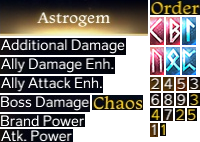
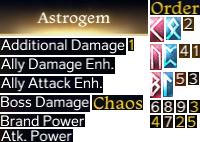
feat/디버그 모드를 매 프레임마다 결정하게 변경
젬 이미지 직접 캡쳐로 추가

Changed region(s): [[0.75, 0.1127, 1.0, 0.9859], [0.63, 0.2535, 0.69, 0.3662]]

diff --git a/src/lib/cv/captureWorker.ts b/src/lib/cv/captureWorker.ts
@@ -31,14 +31,19 @@ type RecgonitionTarget<K extends string> = {
 };
 
 class FrameProcessor {
-  loadedAsset: Awaited<ReturnType<typeof loadGemAsset>> | null = null;
-  debugCanvas: OffscreenCanvas | null = null;
-  private canvas: OffscreenCanvas = new OffscreenCanvas(1, 1);
-  private ctx = this.canvas.getContext('2d', { willReadFrequently: true })!;
+  // init
+  private loadedAsset: Awaited<ReturnType<typeof loadGemAsset>> | null = null;
   private initPromise: Promise<void> | null = null;
+
+  // debug
+  private debugCanvas: OffscreenCanvas = new OffscreenCanvas(0, 0);
+
+  // frame
+  private canvas: OffscreenCanvas = new OffscreenCanvas(0, 0);
+  private ctx = this.canvas.getContext('2d', { willReadFrequently: true })!;
   private cv: CV | null = null;
   private previousInfo: { locale: AppLocale; anchorLoc: { x: number; y: number } } | null = null;
-  thresholdSet = {
+  private thresholdSet = {
     anchor: 0.95,
     gemAttr: 0.9,
     gemImage: 0.8,
@@ -117,7 +122,7 @@ class FrameProcessor {
     return null;
   }
 
-  processFrame(frame: VideoFrame) {
+  processFrame(frame: VideoFrame, drawDebug: boolean = false) {
     const canvas = this.canvas;
     const ctx = this.ctx;
     let resizedFrame: CvMat | null = null;
@@ -134,7 +139,7 @@ class FrameProcessor {
       const imageData = ctx.getImageData(0, 0, canvas.width, canvas.height);
       resizedFrame = cv.matFromImageData(imageData);
       cv.cvtColor(resizedFrame, resizedFrame, cv.COLOR_RGBA2GRAY);
-      if (this.debugCanvas) {
+      if (drawDebug) {
         this.debugCanvas.width = frame.displayWidth * resolutionScale;
         this.debugCanvas.height = frame.displayHeight * resolutionScale;
 
@@ -206,7 +211,7 @@ class FrameProcessor {
         {
           roi: { x: anchorX - 186, y: anchorY + 91, width: 224, height: 24 },
           atlas: this.loadedAsset.atlasGemAttr[currentLocale],
-          threshold: this.thresholdSet.anchor,
+          threshold: this.thresholdSet.gemAttr,
         },
         resizedFrame,
         debugCtx
@@ -367,27 +372,24 @@ self.onmessage = async (e: MessageEvent<CaptureWorkerRequest>) => {
   const data = e.data;
   switch (data.type) {
     case 'init':
+      // 초기화 요청
       await processor.init();
       postToMain({ type: 'init:done' });
       break;
 
-    case 'debug':
-      processor.debugCanvas = new OffscreenCanvas(0, 0);
-      break;
-
     case 'frame':
-      const result = processor.processFrame(data.frame);
-      if (processor.debugCanvas) {
+      // 프레임 분석 요청
+      const result = processor.processFrame(data.frame, data.drawDebug);
+      postToMain({
+        type: 'frame:done',
+        result,
+      });
+      if (data.drawDebug) {
         postToMain({
           type: 'debug',
           image: processor.debugCanvas.transferToImageBitmap(),
         });
       }
-      postToMain({
-        type: 'frame:done',
-        result,
-        gems: result,
-      });
       break;
   }
 };

diff --git a/src/lib/opencv-template-coords/en_us.ts b/src/lib/opencv-template-coords/en_us.ts
@@ -1,33 +1,33 @@
 // THIS FILE IS AUTO-GENERATED. DO NOT MODIFY ITSELF
 export const enUsCoords = {
-  '1.png': { x: 150, y: 123, w: 8, h: 14 },
-  '2.png': { x: 150, y: 77, w: 11, h: 14 },
-  '3.png': { x: 189, y: 77, w: 11, h: 13 },
-  '4.png': { x: 163, y: 77, w: 11, h: 14 },
-  '5.png': { x: 176, y: 77, w: 11, h: 14 },
-  '6.png': { x: 150, y: 93, w: 11, h: 13 },
-  '7.png': { x: 163, y: 108, w: 10, h: 13 },
-  '8.png': { x: 163, y: 93, w: 11, h: 13 },
-  '9.png': { x: 176, y: 93, w: 11, h: 13 },
+  '1.png': { x: 192, y: 44, w: 8, h: 14 },
+  '2.png': { x: 183, y: 17, w: 11, h: 14 },
+  '3.png': { x: 188, y: 72, w: 11, h: 13 },
+  '4.png': { x: 179, y: 44, w: 11, h: 14 },
+  '5.png': { x: 175, y: 72, w: 11, h: 14 },
+  '6.png': { x: 150, y: 100, w: 11, h: 13 },
+  '7.png': { x: 163, y: 115, w: 10, h: 13 },
+  '8.png': { x: 163, y: 100, w: 11, h: 13 },
+  '9.png': { x: 176, y: 100, w: 11, h: 13 },
   'anchor.png': { x: 0, y: 0, w: 148, h: 36 },
-  'lv1.png': { x: 160, y: 123, w: 6, h: 13 },
-  'lv2.png': { x: 175, y: 108, w: 10, h: 13 },
-  'lv3.png': { x: 189, y: 93, w: 11, h: 13 },
-  'lv4.png': { x: 150, y: 108, w: 11, h: 13 },
-  'lv5.png': { x: 187, y: 108, w: 10, h: 13 },
-  '견고.png': { x: 150, y: 17, w: 14, h: 28 },
+  'lv1.png': { x: 128, y: 38, w: 6, h: 13 },
+  'lv2.png': { x: 175, y: 115, w: 10, h: 13 },
+  'lv3.png': { x: 189, y: 100, w: 11, h: 13 },
+  'lv4.png': { x: 150, y: 115, w: 11, h: 13 },
+  'lv5.png': { x: 187, y: 115, w: 10, h: 13 },
+  '견고.png': { x: 150, y: 17, w: 14, h: 25 },
   '공격력.png': { x: 0, y: 129, w: 73, h: 13 },
   '낙인력.png': { x: 0, y: 114, w: 85, h: 13 },
   '보스피해.png': { x: 0, y: 95, w: 90, h: 17 },
-  '불변.png': { x: 166, y: 17, w: 14, h: 28 },
-  '붕괴.png': { x: 182, y: 17, w: 14, h: 28 },
+  '불변.png': { x: 150, y: 72, w: 11, h: 26 },
+  '붕괴.png': { x: 163, y: 72, w: 10, h: 25 },
   '아군공격강화.png': { x: 0, y: 76, w: 103, h: 17 },
   '아군피해강화.png': { x: 0, y: 57, w: 115, h: 17 },
-  '안정.png': { x: 150, y: 47, w: 14, h: 28 },
-  '왜곡.png': { x: 166, y: 47, w: 14, h: 28 },
+  '안정.png': { x: 150, y: 44, w: 12, h: 26 },
+  '왜곡.png': { x: 166, y: 17, w: 15, h: 23 },
   '질서.png': { x: 150, y: 0, w: 50, h: 15 },
   '추가피해.png': { x: 0, y: 38, w: 126, h: 17 },
-  '침식.png': { x: 182, y: 47, w: 14, h: 28 },
+  '침식.png': { x: 164, y: 44, w: 13, h: 24 },
   '혼돈.png': { x: 92, y: 95, w: 51, h: 15 },
 } as const;
 

diff --git a/src/lib/opencv-template-coords/ko_kr.ts b/src/lib/opencv-template-coords/ko_kr.ts
@@ -1,33 +1,33 @@
 // THIS FILE IS AUTO-GENERATED. DO NOT MODIFY ITSELF
 export const koKrCoords = {
-  '1.png': { x: 35, y: 112, w: 8, h: 15 },
-  '2.png': { x: 78, y: 92, w: 10, h: 15 },
-  '3.png': { x: 102, y: 92, w: 10, h: 13 },
-  '4.png': { x: 120, y: 56, w: 12, h: 13 },
-  '5.png': { x: 136, y: 74, w: 10, h: 14 },
+  '1.png': { x: 166, y: 106, w: 8, h: 15 },
+  '2.png': { x: 166, y: 27, w: 10, h: 15 },
+  '3.png': { x: 166, y: 76, w: 10, h: 13 },
+  '4.png': { x: 107, y: 56, w: 12, h: 13 },
+  '5.png': { x: 166, y: 44, w: 10, h: 14 },
   '6.png': { x: 123, y: 74, w: 11, h: 14 },
-  '7.png': { x: 137, y: 38, w: 11, h: 15 },
-  '8.png': { x: 94, y: 56, w: 11, h: 15 },
-  '9.png': { x: 107, y: 56, w: 11, h: 15 },
+  '7.png': { x: 150, y: 109, w: 11, h: 15 },
+  '8.png': { x: 137, y: 38, w: 11, h: 15 },
+  '9.png': { x: 94, y: 56, w: 11, h: 15 },
   'anchor.png': { x: 0, y: 0, w: 148, h: 36 },
-  'lv1.png': { x: 137, y: 92, w: 7, h: 13 },
-  'lv2.png': { x: 126, y: 92, w: 9, h: 13 },
-  'lv3.png': { x: 90, y: 92, w: 10, h: 14 },
-  'lv4.png': { x: 134, y: 56, w: 11, h: 13 },
-  'lv5.png': { x: 114, y: 92, w: 10, h: 13 },
-  '견고.png': { x: 150, y: 0, w: 14, h: 28 },
+  'lv1.png': { x: 166, y: 138, w: 7, h: 13 },
+  'lv2.png': { x: 166, y: 123, w: 9, h: 13 },
+  'lv3.png': { x: 166, y: 60, w: 10, h: 14 },
+  'lv4.png': { x: 121, y: 56, w: 11, h: 13 },
+  'lv5.png': { x: 166, y: 91, w: 10, h: 13 },
+  '견고.png': { x: 150, y: 0, w: 14, h: 25 },
   '공격력.png': { x: 0, y: 92, w: 42, h: 18 },
   '낙인력.png': { x: 94, y: 38, w: 41, h: 16 },
   '보스피해.png': { x: 0, y: 74, w: 60, h: 16 },
-  '불변.png': { x: 150, y: 30, w: 14, h: 28 },
-  '붕괴.png': { x: 150, y: 60, w: 14, h: 28 },
+  '불변.png': { x: 150, y: 81, w: 11, h: 26 },
+  '붕괴.png': { x: 166, y: 0, w: 10, h: 25 },
   '아군공격강화.png': { x: 0, y: 38, w: 92, h: 16 },
   '아군피해강화.png': { x: 0, y: 56, w: 92, h: 16 },
-  '안정.png': { x: 150, y: 90, w: 14, h: 28 },
-  '왜곡.png': { x: 0, y: 133, w: 14, h: 28 },
+  '안정.png': { x: 150, y: 27, w: 12, h: 26 },
+  '왜곡.png': { x: 0, y: 133, w: 15, h: 23 },
   '질서.png': { x: 44, y: 92, w: 32, h: 18 },
   '추가피해.png': { x: 62, y: 74, w: 59, h: 16 },
-  '침식.png': { x: 16, y: 133, w: 14, h: 28 },
+  '침식.png': { x: 150, y: 55, w: 13, h: 24 },
   '혼돈.png': { x: 0, y: 112, w: 33, h: 19 },
 } as const;
 

diff --git a/src/components/GemRecognitionPanel.svelte b/src/components/GemRecognitionPanel.svelte
@@ -144,7 +144,7 @@
       // 분석 이후 현재 임시 젬 저장소에 반영
       applyCurrentGems(gemAttr, gems);
     };
-    controller.startCapture(true);
+    controller.startCapture();
   }
 
   async function stopGemCapture() {
@@ -158,6 +158,10 @@
         debugCanvas.height = 0;
       }
     }
+  }
+  async function toggleDrawDebug() {
+    const controller = await getCaptureController();
+    isDebugging = controller.toggleDrawDebug();
   }
 </script>
 
@@ -190,36 +194,11 @@
         {:else}
           <button onclick={stopGemCapture}>🖥 화면 공유 종료</button>
         {/if}
-        <button
-          class:active={isDebugging}
-          onclick={() => (isDebugging = !isDebugging)}
-          disabled={!isRecording}
-        >
+        <button class:active={isDebugging} onclick={toggleDrawDebug} disabled={!isRecording}>
           공유 중인 화면 {isDebugging ? '끄기' : '보기'}
         </button>
       </div>
-      <div class="right">
-        <button
-          hidden={!appConfig.current.uiConfig.debugMode}
-          onclick={() => {
-            if (appConfig.current.locale == 'ko_kr') {
-              if (
-                !window.confirm(
-                  'Would you like to switch the screen recognition to the English client? ' +
-                    'Even you enabled the feature, this site has not been translated into English. ' +
-                    'Please use your browser’s translation feature.\n\n' +
-                    '영문 클라이언트를 사용자를 위한 기능입니다. 화면 인식 기준을 영문 클라이언트로 전환하시겠습니까?'
-                )
-              ) {
-                return;
-              }
-            }
-            captureController.dispose();
-            toggleLocale();
-          }}
-          disabled={isRecording}>Locale: {appConfig.current.locale}</button
-        >
-      </div>
+      <div class="right"></div>
     </div>
     <div hidden={!isDebugging}>
       <div class="debug-screen">

diff --git a/src/lib/cv/captureController.ts b/src/lib/cv/captureController.ts
@@ -13,6 +13,7 @@ export class CaptureController {
   private worker: Worker | null = null;
 
   // debug
+  private drawDebug: boolean = false;
   private debugCanvas: HTMLCanvasElement | null = null;
 
   // 👇 기다리는 Promise들의 resolver
@@ -122,7 +123,7 @@ export class CaptureController {
     return;
   }
 
-  async startCapture(debugMode: boolean = false) {
+  async startCapture() {
     // idle 상태에서만 가능
     // 녹화를 시작합니다.
     // worker를 생성하고 어셋 로드를 시킨 뒤, 사용자에게 화면 공유를 요청합니다.
@@ -149,11 +150,6 @@ export class CaptureController {
         this.awaitWorkerInitialization = resolve;
       });
       this.postMessage({ type: 'init' });
-
-      // debug 모드라면 debugCanvas도 만들도록 시킴
-      if (debugMode) {
-        this.postMessage({ type: 'debug' });
-      }
 
       // 초기화되는 동안 사용자에게 화면 공유 요청
       await this.requestDisplayMedia();
@@ -213,9 +209,10 @@ export class CaptureController {
         });
         // 현재 frame을 postMessage
         const start = performance.now();
-        this.worker.postMessage({ type: 'frame', frame: value } satisfies CaptureWorkerRequest, [
-          value,
-        ]);
+        this.worker.postMessage(
+          { type: 'frame', frame: value, drawDebug: this.drawDebug } satisfies CaptureWorkerRequest,
+          [value]
+        );
         value = undefined;
         // 주의: value 소유권은 worker에게 넘어갔으니 더 이상 건드리면 안 되기에 undefined
         await waitForAnalysis;
@@ -260,5 +257,9 @@ export class CaptureController {
   }
   isRecording() {
     return this.state == 'recording';
+  }
+  toggleDrawDebug() {
+    this.drawDebug = !this.drawDebug;
+    return this.drawDebug;
   }
 }

diff --git a/src/lib/cv/types.ts b/src/lib/cv/types.ts
@@ -11,8 +11,7 @@ export type CvPoint = CV.Point;
 // main → worker
 export type CaptureWorkerRequest =
   | { type: 'init' } // init worker
-  | { type: 'debug' } // turn on debug
-  | { type: 'frame'; frame: VideoFrame } // send frame
+  | { type: 'frame'; frame: VideoFrame; drawDebug: boolean } // send frame
   | { type: 'stop' };
 
 // worker → main
@@ -20,11 +19,13 @@ export type CaptureWorkerResponse =
   | { type: 'init:done' }
   | {
       type: 'frame:done';
-      result: {
-        locale: AppLocale;
-        gemAttr: ArkGridAttr;
-        gems: ArkGridGem[];
-      } | null;
+      result:
+        | {
+            locale: AppLocale;
+            gemAttr: ArkGridAttr;
+            gems: ArkGridGem[];
+          }
+        | undefined;
     }
   | { type: 'error'; error: WorkerError }
   | { type: 'debug'; image?: ImageBitmap; message?: string };
